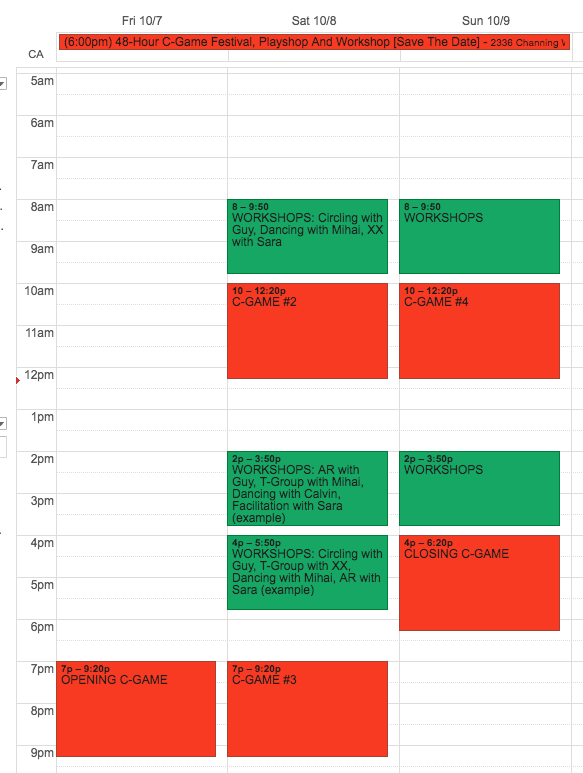
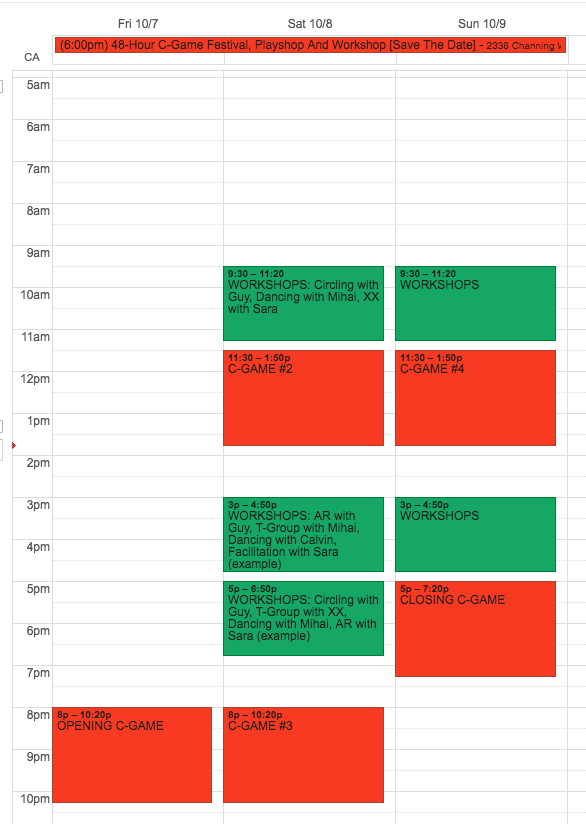
add group wisdom to values, update cgame festival to more forgiving schedule

Changed region(s): [[0.0, 0.0, 1.0, 1.0], [0.6484, 0.1863, 0.7101, 0.2173]]

diff --git a/config/initializers/constants.rb b/config/initializers/constants.rb
@@ -1,2 +1,2 @@
-VALUES = ['C for Connection', 'Honor Self', 'Gifting Energy', 'Join Us!']
+VALUES = ['C for Connection', 'Honor Self', 'Group Wisdom', 'Gifting Energy', 'Join Us!']
 EST = 2015
